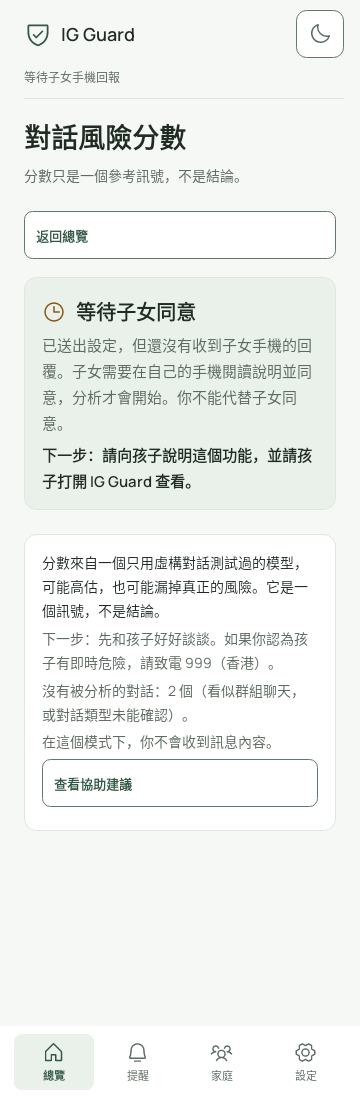
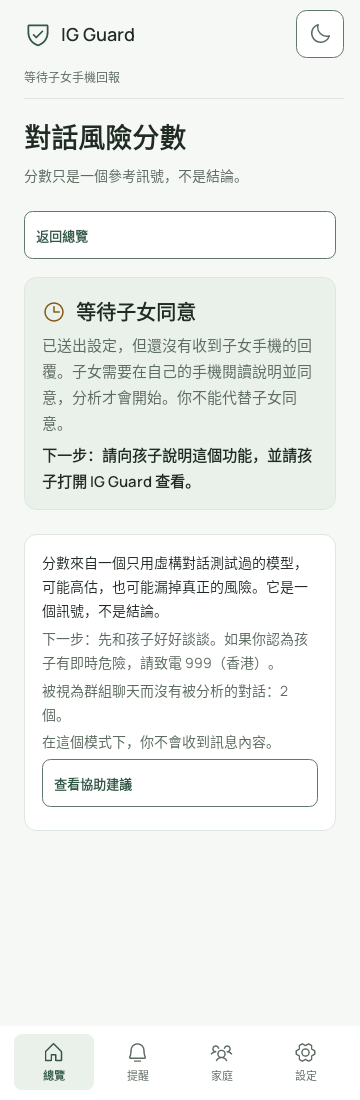
WIP: review fixes for two-sided scoring [skip ci]
Claude-Session: https://claude.ai/code/session_011RFszeMfHUrmtqXSrLL2Ni

Changed region(s): [[0.1222, 0.6182, 0.7944, 0.68]]

diff --git a/tests/ScoresModeUiTest.kt b/tests/ScoresModeUiTest.kt
@@ -671,7 +671,7 @@ class ScoresChildUiTest {
             tag(c, "scores_consent_open").single().performClick()
             val text = UiSupport.texts(c.get().window.decorView).joinToString("\n")
             for (needle in listOf("一對一對話", "最新 60 則", "14 天", "充電", "帳戶名稱", "風險分數", "不含訊息文字", "家長不會收到你的訊息", "只用虛構的對話測試過", "兩個方向都可能出錯", "隨時暫停", "撤回", "刪除", "未獲 Meta 批准",
-                "one-to-one", "latest 60 messages", "invented chats", "wrong in both directions", "Not approved by Meta")) assertTrue(needle, text.contains(needle))
+                "One-to-one chats are analysed", "cannot be told apart from group chats", "latest 60 messages", "invented chats", "wrong in both directions", "Not approved by Meta")) assertTrue(needle, text.contains(needle))
             assertFalse("no pre-ticked box", v(c).any { it is android.widget.CheckBox })
             assertEquals(0, tag(c, "scores_agree").count { !it.isEnabled })
             tag(c, "scores_not_now").single().performClick()
@@ -994,6 +994,7 @@ class ScoresChildUiTest {
             permissions(first)
             val uri = Uri.parse("content://test.picker/model")
             shadowOf(ctx.contentResolver).registerInputStream(uri, ByteArrayInputStream(tiny))
+            MainActivity::class.java.getDeclaredField("modelPickAuthorized").apply { isAccessible = true }.setBoolean(first.get(), true)
             MainActivity::class.java.getDeclaredMethod("onActivityResult", Int::class.javaPrimitiveType, Int::class.javaPrimitiveType, Intent::class.java).apply { isAccessible = true }
                 .invoke(first.get(), 9032, android.app.Activity.RESULT_OK, Intent().setData(uri))
             assertTrue(ModelImportJob.running); assertEquals(1, tag(first, "scores_import_progress").size)

diff --git a/docs/superpowers/plans/2026-11-19-scores-only-family-mode.md b/docs/superpowers/plans/2026-11-19-scores-only-family-mode.md
@@ -13,7 +13,7 @@
[1 lines of base64/hex data omitted]
 - In this mode no message text, quote or summary reaches the parent's phone.
 - Nothing is stored or scored before the child accepts; a visible status is always shown; pause works at once and the parent is told.
-- Store limits: latest 60 messages per thread, nothing older than 14 days. One-to-one threads only: kind `direct`, or kind `unknown` with at most one distinct incoming author (Derek's decision, 19 November 2026, a stated departure from the design's "threads whose kind is unknown are not stored or scored"). Group threads are never stored; an unknown-kind thread that shows a second incoming author is treated as a group, deleted, excluded and counted.
+- Store limits: latest 60 messages per thread, nothing older than 14 days. One-to-one threads only: kind `direct`, or kind `unknown` with at most one distinct incoming author (Derek's decision, 19 November 2026, a stated departure from the design's "threads whose kind is unknown are not stored or scored"). Group threads are never stored; an unknown-kind thread that shows a second incoming author is treated as a group, deleted, set aside and counted. Screen reads cannot show an author, so a group opened on the phone may be analysed.
 - A thread is scored on its latest 30 messages; its reported score is the highest seen in the last 14 days.
 - Runs while idle and charging; after 48 hours without a run, charging only.
 - Phones with less than about 8 GB of memory: mode unavailable, and the app says so.
@@ -26,7 +26,7 @@
 1. **Records on the relay.**
    - Parent to child, signed like `capture_policy`: `scores_mode_policy` with `policy_id` and `enabled`.
    - Child to parent, control-wrapped like `capture_ack`: `scores_mode_report` with a `state` object (`policy_id`, `model`: valid, missing, mismatch, unsupported_device (memory or CPU) or engine_unavailable (the analysis library could not be loaded); `consent`: none, accepted or withdrawn; `active` (true only while analysis can actually run, so "agreed but not running" is visible); `paused` and `paused_at_ms`; `last_run_ms`; `scored_count`; `unknown_threads`) and a `conversations` array of `{account_label, score or null, review_reason or null, scored_at_ms}`. Nothing else.
-2. **Account label and thread kind** come from the existing capture record: `conversation_label` and `conversation_kind`. Kind `direct` is stored, and so is kind `unknown` while it shows at most one distinct incoming author (Derek's decision of 19 November 2026; a stated departure from the design, which did not store unknown-kind threads). A second distinct incoming author makes an unknown thread a group: its stored messages and results are deleted at once and it is excluded for the 14-day window and counted in `unknown_threads`, which now means conversations not analysed because they look like group chats or their type could not be confirmed. Screen captures record no incoming author at all (see "Open questions"), so a screen thread cannot be told from a group; notification threads can.
+2. **Account label, thread kind and author** come from the existing capture record: `conversation_label`, `conversation_kind` and `author`. A thread is identified by its label alone (no account, no kind), so a notification thread and a screen thread of one conversation are one thread, and merging by label in the report is only a safeguard. Kind `direct` is stored; kind `unknown` (most screen reads) is stored while it shows at most one distinct incoming author (Derek's decision of 19 November 2026; a stated departure from the design, which did not store unknown-kind threads). Kind `group`, or a second distinct incoming author, sets the thread aside as a group: stored messages and results are deleted at once, undelivered reports are replaced, and the label stays set aside until 14 days after it was last seen (a content-free blind-index marker). `unknown_threads` counts every thread set aside as a group, whichever way. A score already delivered to the parent for a thread that is later set aside stays on the parent's phone under the archive's normal deletion rules; there is no removal field. Key rotation or a new family wipes the markers, so a group that was set aside can be analysed again until it shows a second author or a group record again. Screen captures record no incoming author, so a group seen only on the screen cannot be told apart and may be analysed; the consent wording says so, and the wording version (`2026-11-19-scores-v2`) makes a child who agreed to older wording agree again, with alerts content-free meanwhile.
 3. **Content-free alerts** in this mode are ordinary `alert` records with the rule category in `reason`, the account label in `sender`, the time, an empty `text` and `"content_free": true` (only alerts whose text the mode removed carry this field; the parent UI uses it to say that the text was withheld); keyword matches and signals carry the category tag only, never the matched phrase.
 4. **After the child withdraws** the phone does not fall back to forwarding text. Alerts stay content-free, the parent sees "withdrawn by your child", and only the parent switching the mode off (with the change-of-mode page on both phones) returns the family to the earlier mode.
 5. **Memory check:** total RAM reported by `ActivityManager.MemoryInfo.totalMem` of at least 7 GB counts as "about 8 GB", because phones sold as 8 GB report slightly less.
@@ -41,7 +41,7 @@ Each task ends with its tests passing in the Robolectric suite (`tests/run_andro
 3. **Child engine.**
    - Model import, verification and state; memory check.
    - Mode state: policy received, child consent receipt (separate from the Terms receipt), paused, withdrawn. `active` only when every condition holds.
-   - Encrypted store with the 60-message and 14-day limits; `direct` threads, and `unknown` threads with at most one incoming author; groups excluded and counted.
+   - Encrypted store with the 60-message and 14-day limits; `direct` threads, and `unknown` threads with at most one incoming author; groups set aside and counted.
    - In active mode: captured messages go to the store and are not queued for the parent; keyword and unapproved-contact alerts are queued without text.
    - Batch scoring with the fake-able scorer; highest score in 14 days; interrupted thread restarts.
    - Job scheduling: idle and charging; charging only after 48 hours.
@@ -56,7 +56,7 @@ Each task ends with its tests passing in the Robolectric suite (`tests/run_andro
 
 ## Open questions
 
-- **Unknown thread kind. Resolved (Derek, 19 November 2026): treat unknown-kind threads as one-to-one while only one other author appears.** This replaces the design's rule. Limit that remains: the screen reader records no incoming author (incoming bubbles carry an empty `author`, outgoing ones the child's label), so a group read only from the screen shows no second author and is analysed as if it were one-to-one. Only notification records carry an author. The "not analysed" count therefore under-reports groups seen on screen.
+- **Unknown thread kind. Resolved (Derek, 19 November 2026): treat unknown-kind threads as one-to-one while only one other author appears.** This replaces the design's rule. Limit that remains: the screen reader records no incoming author (incoming bubbles carry an empty `author`, outgoing ones the child's label), so a group read only from the screen shows no second author and is analysed as if it were one-to-one. Only notification records carry an author. The consent wording says so plainly; the set-aside count under-reports groups seen on screen.
 - **Parent password for the model on the child's phone. Resolved: yes (Derek, 19 November 2026).** Importing and removing the model on the child's phone need the parent's password, using the same check as switching the phone's role; cancelling or a wrong password changes nothing.
 - **Terms receipt.** The Terms file is hashed into each consent receipt and existing users are never asked again. The design adds a separate consent page for the child; whether parents must also re-accept changed Terms is a legal question.
 - **Version.** The app version (`4.9-beta.4`) is pinned in three places and is not changed by this work.

diff --git a/docs/drafts/2026-11-19-scores-only/privacy-data-flow.md b/docs/drafts/2026-11-19-scores-only/privacy-data-flow.md
@@ -41,7 +41,7 @@ Earlier builds could forward unsent comment/story-reply observations. Retained r
 
 ## Scores-only family mode (optional)
 
-Off by default. The parent switches it on after the child's phone has reported a valid model file; nothing is stored or scored until the child agrees once on the child's phone. Only one-to-one threads are used: threads of kind `direct`, and threads of kind `unknown` (most screen captures) while they show at most one distinct incoming author. Group threads are never stored. An unknown-kind thread that shows a second incoming author is treated as a group: its stored messages and results are deleted, it is excluded for 14 days (a content-free marker keyed by a blind index) and it is counted. The thread kind, author and account label come from the existing capture record (`conversation_kind`, `author`, `conversation_label`); screen captures record no incoming author, so a group seen only on the screen cannot be told apart.
+Off by default. The parent switches it on after the child's phone has reported a valid model file; nothing is stored or scored until the child agrees once on the child's phone. Only one-to-one threads are used: threads of kind `direct`, and threads of kind `unknown` (most screen captures) while they show at most one distinct incoming author. Group threads are never stored. An unknown-kind thread that shows a second incoming author is treated as a group: its stored messages and results are deleted, it is set aside until 14 days after it was last seen (a content-free marker keyed by a blind index) and counted; a thread is identified by its label alone, and a group record from a notification also sets the label aside for the screen. A score already delivered to the parent for a thread that is later set aside stays on the parent's phone under the normal deletion rules. The thread kind, author and account label come from the existing capture record (`conversation_kind`, `author`, `conversation_label`); screen captures record no incoming author, so a group seen only on the screen cannot be told apart.
 
 | Stage | Implementation | Who normally has access |
 | --- | --- | --- |
@@ -50,7 +50,7 @@ Off by default. The parent switches it on after the child's phone has reported a
 | Child's agreement | A separate consent page and receipt on the child's phone, acknowledged to the parent. Nothing is stored or scored before it. | The child's phone; the parent learns agreed or waiting. |
 | Child-side store | Captured one-to-one messages go into an encrypted store using the existing device-bound vault keys: latest 60 per thread, nothing older than 14 days. They are not queued for the parent. | The child's phone and app only. Not the relay, Safe Guard or the parent's phone. |
 | Scoring | On the child's phone while idle and charging (charging only after 48 hours without a run), over the latest 30 messages per thread; the thread's score is the highest in 14 days. | The child's phone. |
-| Report | After each run and on each state change, a `scores_mode_report` goes to the parent: state (model state, agreed/waiting/withdrawn, paused and when, last run, scored count, count of conversations not analysed because they look like group chats or their type could not be confirmed) and per conversation the account label, a score or null, a review reason or null, and the time. No text. | Encrypted with the family key; relay handles ciphertext and metadata; the parent's phone decrypts and stores. |
+| Report | After each run and on each state change, a `scores_mode_report` goes to the parent: state (model state, agreed/waiting/withdrawn, paused and when, last run, scored count, count of group chats set aside and not analysed) and per conversation the account label, a score or null, a review reason or null, and the time. No text. | Encrypted with the family key; relay handles ciphertext and metadata; the parent's phone decrypts and stores. |
 | Alerts | Keyword and unapproved-contact rules run on the child's phone. Alerts carry the rule category, account label and time, with an empty text field and no matched phrase. | As for other alerts. |
 | Parent view | Conversation list with band, score and date; a notification when a conversation first reaches 50 (once per conversation per 14-day window, without the contact's name); a notice that scores are out of date if no report arrives for 72 hours. | The parent's phone, behind the parent's authentication. |
 | Pause, withdraw | Pause stops storing and scoring at once and the parent is told. Withdraw deletes the store and unsent scores and the parent is told. No fallback to forwarding text. | The child's phone; the parent sees the state. |

diff --git a/CHANGELOG.md b/CHANGELOG.md
@@ -5,7 +5,7 @@
 No app version is changed by this entry. Nothing below has run on a physical phone, and the model was tested only on invented chats.
 
 - Add an optional scores-only family mode. The parent switches it on only after the child's phone has reported a valid model file; the child sees a plain-language page and must agree once. Until the child agrees, the earlier behaviour continues unchanged. The child can pause (stops storing and scoring at once) or withdraw (deletes the local store and unsent scores). Turning the mode on again needs agreement again.
-- While the mode is on, the child's phone keeps the latest 60 messages per one-to-one thread for up to 14 days in an encrypted local store, scores each thread on its latest 30 messages while charging and idle (charging only after 48 hours without a run), and sends the parent only an account label, a 0 to 100 score or "needs review", and times. Message text is no longer sent to the parent in this mode. Threads read from the screen (kind unknown) are analysed too while only one other person appears; a thread that shows a second other person is treated as a group, deleted and only counted. Group chats are not analysed. The screen capture records no author for incoming messages, so a group seen only on the screen may be analysed.
+- While the mode is on, the child's phone keeps the latest 60 messages per one-to-one thread for up to 14 days in an encrypted local store, scores each thread on its latest 30 messages while charging and idle (charging only after 48 hours without a run), and sends the parent only an account label, a 0 to 100 score or "needs review", and times. Message text is no longer sent to the parent in this mode. Chats read from the screen (kind unknown) are analysed too. A chat known to be a group, or one that shows a second other person in a notification, is set aside: what was kept is deleted and it is only counted. The screen records no author for incoming messages, so a group chat opened on the phone may be analysed, and the consent wording says so; the consent wording changed, so a child who agreed earlier is asked again.
 - Keyword and unapproved-contact alerts keep working but carry only the category, the account label and the time, marked as sent without text. After a withdrawal the phone does not go back to forwarding text; only the parent switching the mode off does, and the child is told when that happens.
 - Importing or removing the analysis model on the child's phone needs the parent's password.
 - Add the on-phone scoring engine (llama.cpp, CPU, arm64-v8a) and a hand-imported model file that is refused unless its size and SHA-256 match exactly. Phones with under about 8 GB of memory, or where the library cannot load, report the mode as unavailable.

diff --git a/docs/drafts/2026-11-19-scores-only/terms-of-service.md b/docs/drafts/2026-11-19-scores-only/terms-of-service.md
@@ -87,7 +87,7 @@ Acceptance agrees to the processing below; it neither grants Android permissions
 
 This mode is optional and off by default. A parent switches it on in the parent phone. The switch stays disabled until the child's phone has reported a valid model file. The child must first agree once, on a separate page on the child's phone; until then nothing is stored or analysed. If the child has not agreed, the parent sees "waiting for your child to agree", cannot agree for the child, and the earlier mode keeps running. This agreement is separate from the three confirmations in section 7 and from the Terms receipt in section 4.
 
-**What is analysed.** Only one-to-one Instagram conversations that the app already captures through notifications and screen text. Conversations read from the screen are analysed too when only one other person appears in them. Group chats are not analysed; a conversation that shows a second other person is treated as a group, what was kept is deleted, and it is only counted in the report. The app cannot always tell a group from a one-to-one chat on the screen, so a group may sometimes be analysed.
+**What is analysed.** Only one-to-one Instagram conversations that the app already captures through notifications and screen text. Conversations read from the screen are analysed too when only one other person appears in them. Group chats are not analysed; a conversation that shows a second other person is treated as a group, what was kept is deleted, and it is only counted in the report. The app cannot tell a group from a one-to-one chat read from the screen, so a group chat the child opens on the phone may be analysed. A chat the app knows to be a group is not analysed.
 
 **Where it runs.** Analysis runs on the child's phone, using a model file (about 1.1 GB) installed by hand. The app checks the file's size and SHA-256 and refuses any other file. It runs while the phone is idle and charging; if no run has happened for 48 hours, charging alone is enough. In this mode no chat text is sent to any server or to the parent's phone. The phone needs about 8 GB of memory; otherwise the mode is unavailable and the app says so.
 

diff --git a/docs/drafts/2026-11-19-scores-only/privacy-policy.md b/docs/drafts/2026-11-19-scores-only/privacy-policy.md
@@ -43,7 +43,7 @@ Older builds could forward unsent comment/story-reply drafts. Those retained rec
 
 This mode is off by default. A parent switches it on in the parent phone, and the switch stays disabled until the child's phone has reported a valid model file. Nothing is stored or analysed until the child agrees once, on a separate page on the child's phone. If the child has not agreed, the parent sees "waiting for your child to agree" and cannot agree for the child; the earlier mode keeps running. IG Guard is independent of Meta and has no Meta approval; this mode uses the existing capture, and official Instagram API and portability integrations are not implemented.
 
-**What is analysed.** One-to-one Instagram conversations that the app already captures through notifications and screen text. Conversations read from the screen are analysed too when only one other person appears in them. Group chats are not analysed. A conversation that shows a second other person is treated as a group: what was kept is deleted and it is only counted in the report. The app cannot always tell a group from a one-to-one chat on the screen, so a group may sometimes be analysed.
+**What is analysed.** One-to-one Instagram conversations that the app already captures through notifications and screen text. Conversations read from the screen are analysed too when only one other person appears in them. Group chats are not analysed. A conversation that shows a second other person is treated as a group: what was kept is deleted and it is only counted in the report. The app cannot tell a group from a one-to-one chat read from the screen, so a group chat the child opens on the phone may be analysed. A chat the app knows to be a group is not analysed.
 
 **Where analysis runs.** On the child's phone, using a model file (about 1.1 GB) installed by hand. The app checks its size and SHA-256 and refuses any other file. It runs while the phone is idle and charging, or on charging alone if no run has happened for 48 hours. In this mode no chat text is sent to any server or to the parent's phone. The phone needs about 8 GB of memory; otherwise the mode is unavailable.
 
